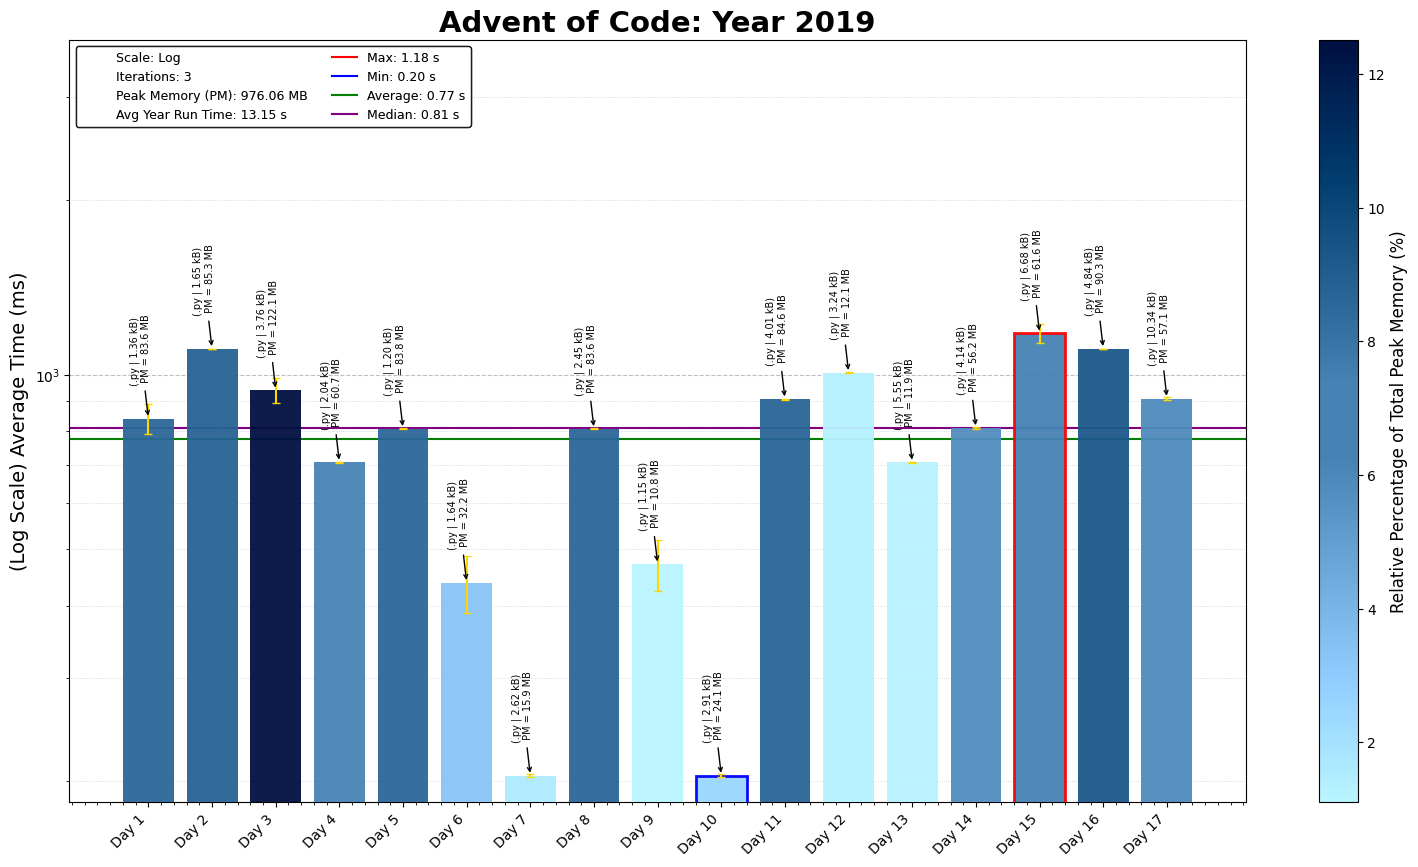
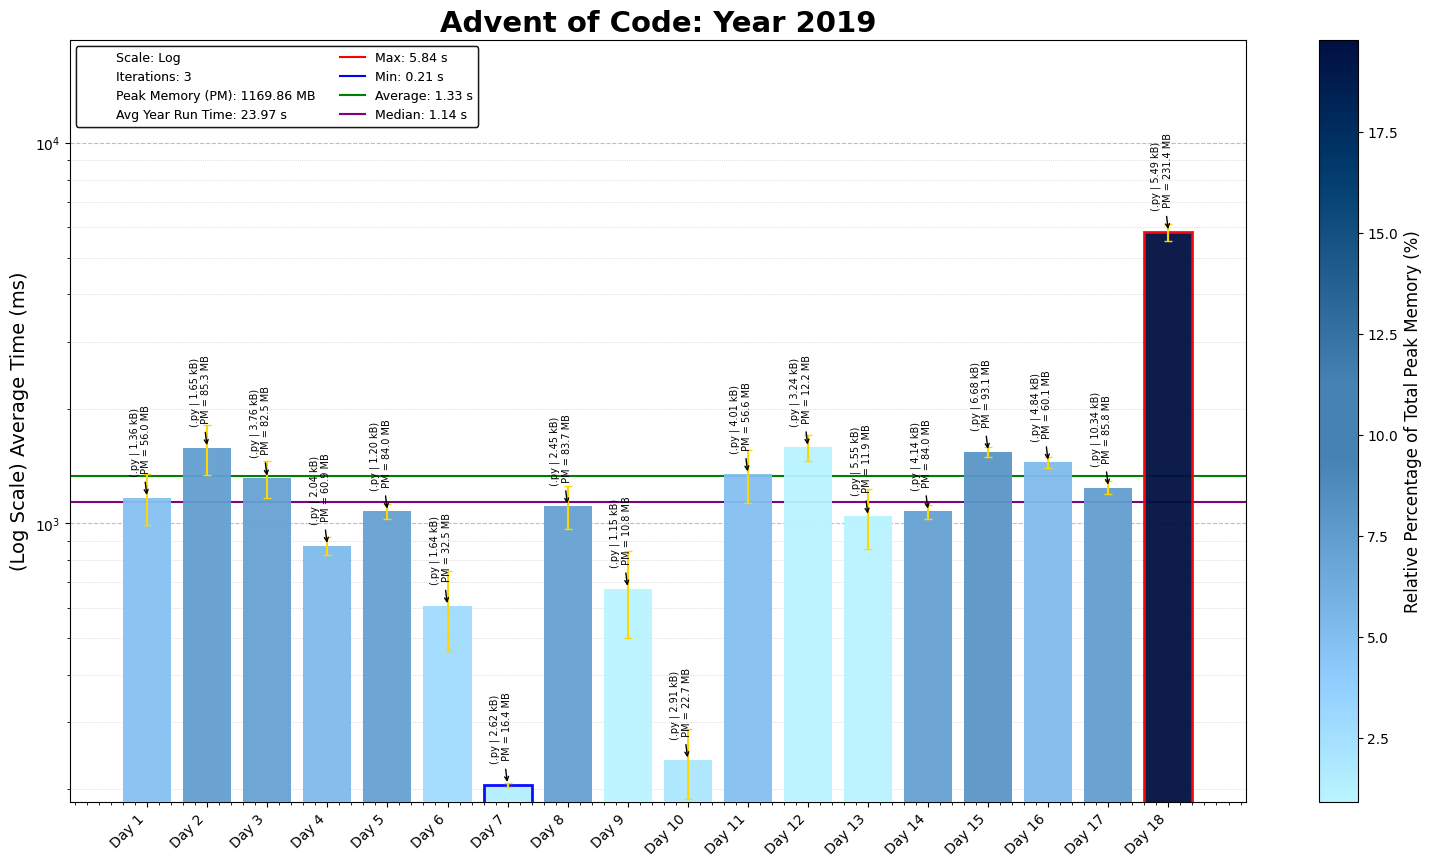
2019 Day 19 P1

diff --git a/2019/18/2019Day18.py b/2019/18/2019Day18.py
@@ -1,0 +1,162 @@
+"""Advent of Code - Day 18, Year 2019
+Solution Started: Jan 30, 2025
+Puzzle Link: https://adventofcode.com/2019/day/18
+Solution by: abbasmoosajee07
+Brief: [Breaking a Vault]
+"""
+
+#!/usr/bin/env python3
+
+import os, re, copy, time
+import numpy as np
+import pandas as pd
+import matplotlib.pyplot as plt
+start_time = time.time()
+
+# Load the input data from the specified file path
+D18_file = "Day18_input.txt"
+D18_file_path = os.path.join(os.path.dirname(os.path.abspath(__file__)), D18_file)
+
+# Read and sort input data into a grid
+with open(D18_file_path) as file:
+    input_data = file.read().strip().split('\n')
+
+class TritonVault:
+    def __init__(self, blueprints: list[str]):
+        self.blueprint = blueprints
+        self.path_marker = '█' if '█'.encode().decode('utf-8', 'ignore') else '|'
+        self.DIRECTIONS = {'<': (0, -1), '>': (0, 1), '^': (-1, 0), 'v': (1, 0)}
+
+        # Initialize grid attributes
+        self.start_pos = None
+        self.WALLS = set()
+        self.passage = set()
+        self.DOORS_KEYS = {}
+        self.BASE_VAULT = {}
+        self.TARGETS = {}
+        self.overall_path = {}
+        self.parse_grid(blueprints)
+
+    def parse_grid(self, vault: list[str] = None):
+        """
+        Parse the grid from blueprint and identify special elements.
+        """
+        vault = vault or self.blueprint
+
+        for row_no, row in enumerate(vault):
+            for col_no, tile in enumerate(row):
+                pos = (row_no, col_no)
+                self.BASE_VAULT[pos] = tile
+
+                if tile == '@':  # Starting position
+                    self.start_pos = pos
+                    self.TARGETS[pos] = tile
+                    self.BASE_VAULT[pos] = '.'
+
+                elif tile == '#':  # Wall
+                    self.WALLS.add(pos)
+
+                elif tile == '.':  # Passage
+                    self.passage.add(pos)
+
+                else:  # Doors or Keys
+                    self.DOORS_KEYS[tile] = pos
+                    self.TARGETS[pos] = tile
+
+    def get_next_position(self, init_pos: tuple[int, int], move: str) -> tuple[int, int]:
+        """
+        Return the next position based on the current position and direction.
+        """
+        dr, dc = self.DIRECTIONS[move]
+        return init_pos[0] + dr, init_pos[1] + dc
+
+    def print_maze(self, path_taken: dict = {}):
+        """
+        Display the maze with path visualization.
+        """
+        min_row = min(row for row, _ in self.WALLS)
+        max_row = max(row for row, _ in self.WALLS)
+        min_col = min(col for _, col in self.WALLS)
+        max_col = max(col for _, col in self.WALLS)
+
+        vault_grid = []
+
+        for row_no in range(min_row, max_row + 1):
+            row = ''
+            for col_no in range(min_col, max_col + 1):
+                pos = (row_no, col_no)
+                if pos in self.WALLS:
+                    tile = '#'
+                elif pos in path_taken:
+                    tile = path_taken[pos]
+                else:
+                    tile = self.TARGETS.get(pos, '.')
+                row += tile
+            vault_grid.append(row)
+
+        print("\n".join(vault_grid))
+        print("_" * (max_col - min_col + 1))
+
+    def map_path(self, visualize: bool = False) -> int:
+        """
+        Map and visualize the shortest path from the start to collect all keys using BFS.
+        """
+        from collections import deque
+        # Initialize BFS queue: (steps, current_pos, collected_keys_bitmask)
+        queue = deque([(0, self.start_pos, 0)])
+
+        # Compute the bitmask for all keys
+        all_keys_bitmask = (1 << len([k for k in self.DOORS_KEYS if k.islower()])) - 1
+
+        # Visited states to avoid redundant exploration
+        visited = set()
+        overall_path = {}
+
+        while queue:
+            steps, current_pos, collected_keys = queue.popleft()
+
+            # Return if all keys are collected
+            if collected_keys == all_keys_bitmask:
+                return steps
+
+            # Skip already visited states with the same keys
+            state = (current_pos, collected_keys)
+            if state in visited:
+                continue
+            visited.add(state)
+
+            # Explore all adjacent positions
+            for direction in self.DIRECTIONS:
+                next_pos = self.get_next_position(current_pos, direction)
+
+                # Skip walls
+                if next_pos in self.WALLS:
+                    continue
+
+                tile = self.BASE_VAULT.get(next_pos, '.')
+
+                # Handle doors
+                if tile.isupper() and not (collected_keys & (1 << (ord(tile.lower()) - ord('a')))):
+                    continue  # Door is locked, skip this path
+
+                # Handle keys
+                new_collected_keys = collected_keys
+                if tile.islower():
+                    new_collected_keys |= (1 << (ord(tile) - ord('a')))
+
+                # Add the new state to the queue
+                queue.append((steps + 1, next_pos, new_collected_keys))
+                overall_path[next_pos] = direction #self.path_marker
+
+                if visualize:
+                    print(f"Move to {next_pos} with steps: {steps + 1}, keys: {bin(new_collected_keys)}")
+                    self.print_maze(overall_path)
+
+        print("No valid path found.")
+        return -1
+
+vault = TritonVault(input_data)
+steps = vault.map_path()
+print("Part 1:", (steps))
+
+# print(f"Execution Time: {time.time() - start_time}")
